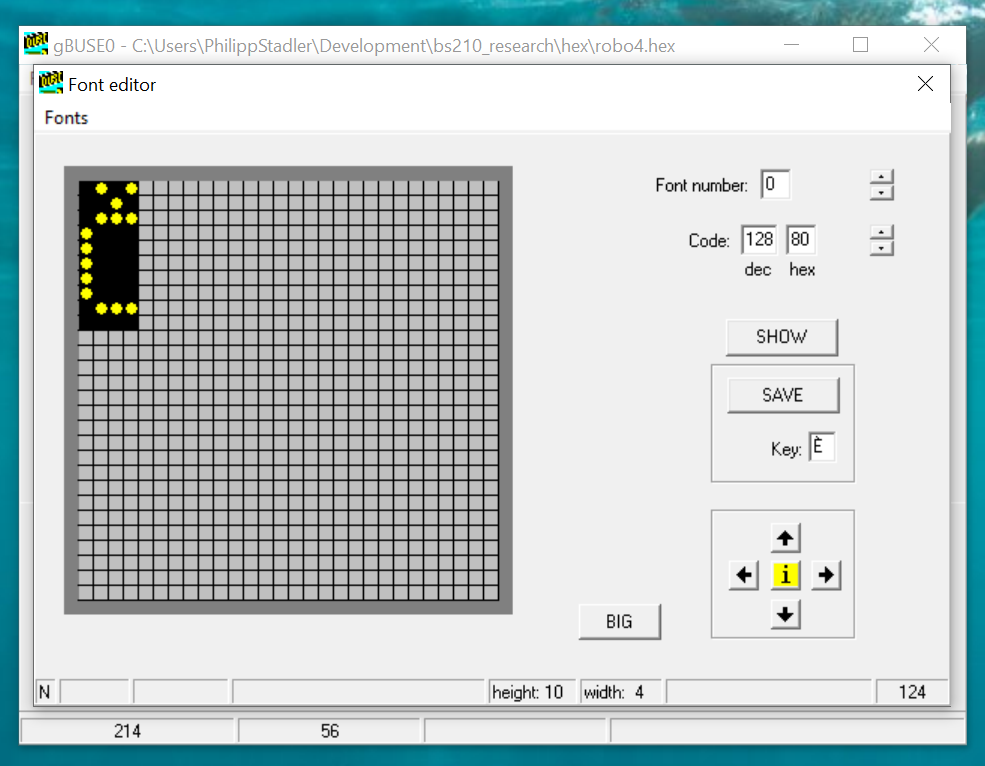
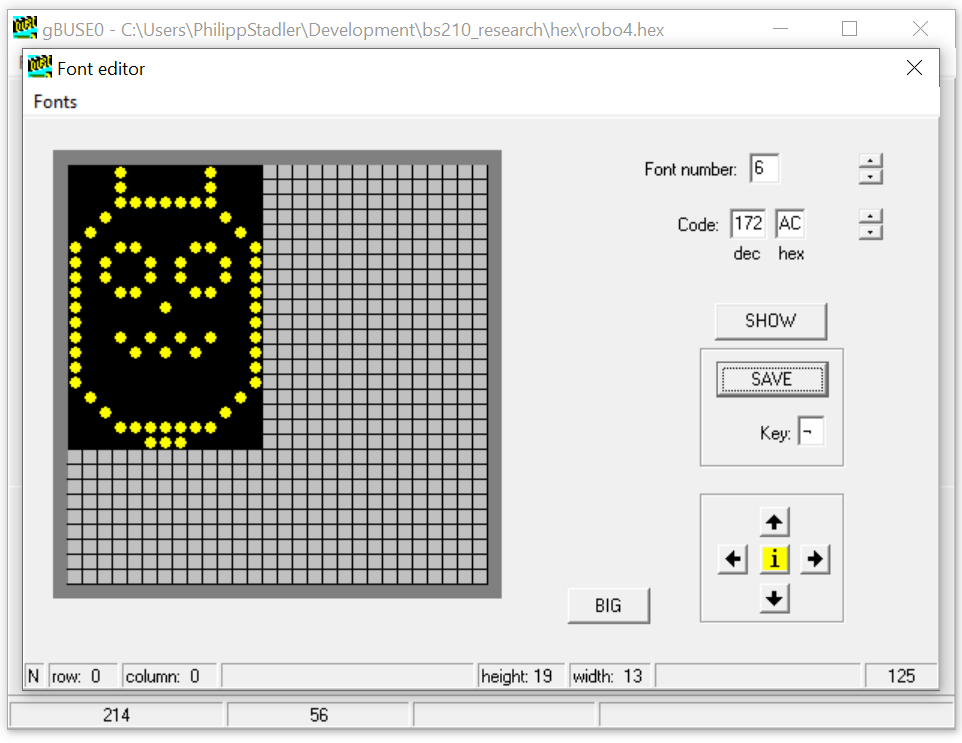
docs: add basic info on font editor to README

diff --git a/README.md b/README.md
@@ -30,7 +30,7 @@ In _Datensätze_ DS001 für Liniennummer und DS003 für Zielnummer aktivieren.
 In Formular gibt es dann für jeden Datensatz ein Textfeld, und mit dem _Senden_-Button sprechen wir unser BS210 an und setzen die Texte:
 ![DS001 und DS003 über WinIBIS setzen](screenshots/winibis.png)
 
-## Texte flashen
+## Texte und Schriften flashen
 Mit `gBUSE0` lassen sich Ziel-Datenbanken erstellen und mit dem `BSLoader` kann man sie hochladen.
 
 ###  gBUSE0
@@ -62,6 +62,22 @@ Beispiel im Destination Editor:
 ![Zielnummer 0 in Destination Editor von robo4.hex](screenshots/gbuse0_destination_editor.png)
 
 Über _File | Save as..._ kann man die `.hex`-Datenbank rausspielen, das man später mit _BSLoader_ auf das Gerät flasht.
+
+#### Font Editor
+Über _Tools | Font Editor_ lässt sich die Schrift der aktuellen Datenbank ändern:
+![Ein Robo im Font Editor](screenshots/font_editor.png)
+
+Mit der Zahl in _Font number_ lässt sich einstellen welche Schriftgröße man editiert.
+
+Die Schrift in `robo4.hex` hat einige nicht beleget Glyphen, z.B. dezimal 172--175 die man gut für eigene Bitmaps verwenden könnte.
+
+172 steht für ¬
+173 steht für ein nicht sichtbares Zeichen
+174 steht für ®
+
+Man kann einen _Key_ einspeichern, nicht sicher was er genau macht. Ich hab es auf das Unicode-Zeichen mit diesem Codepoint gesetzt.
+
+Auch hier unbedingt auf _SAVE_ drücken bevor man die Ansicht ändert. Dabei wird auch ein schwarzes Rechteck unter die ausgewählten gelben Punkte gezeichnet, man muss sie also nicht manuell von grau auf schwarz ändern.
 
 ### Uploaden mit BSLoader
 Erkennt BS210 und man kann data files hochladen. Configuration und Program ist ausgegraut und kann nicht hochgeladen werden.
